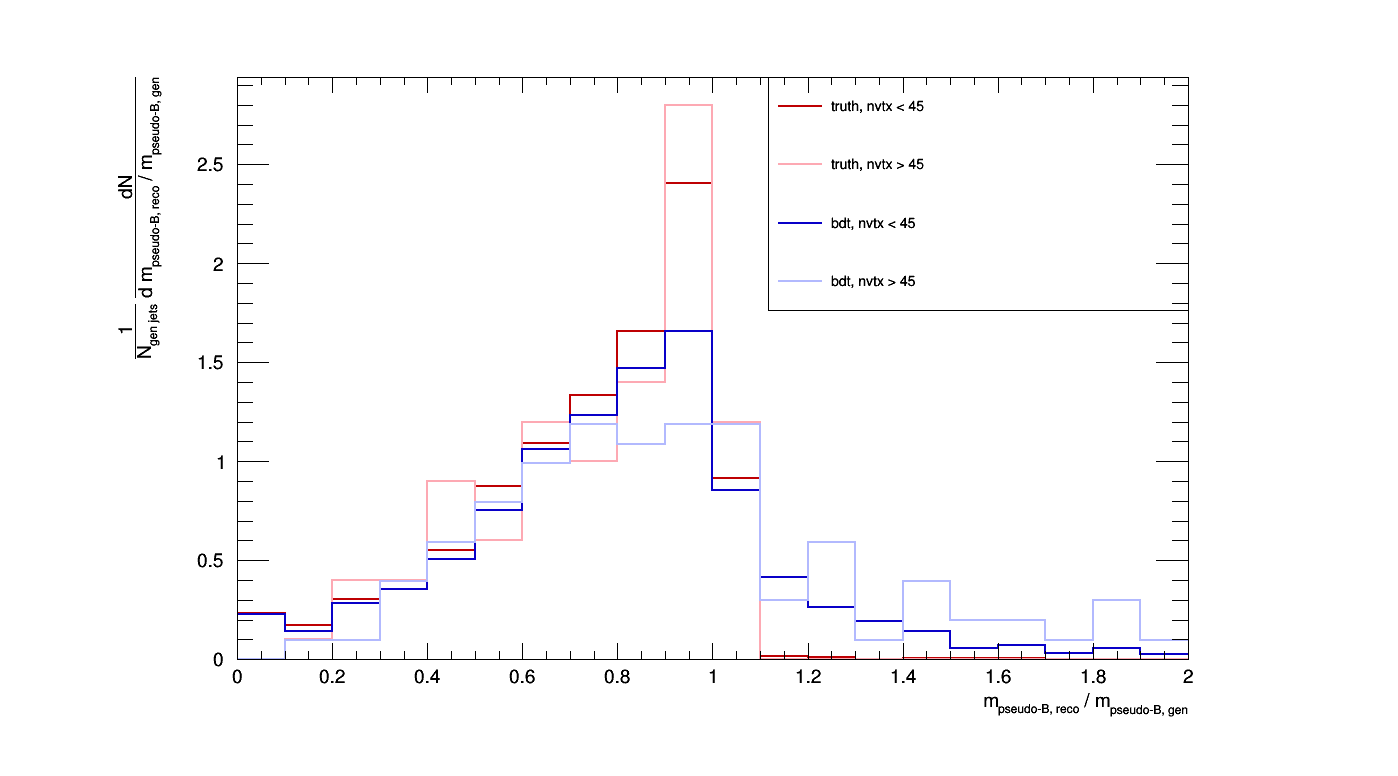
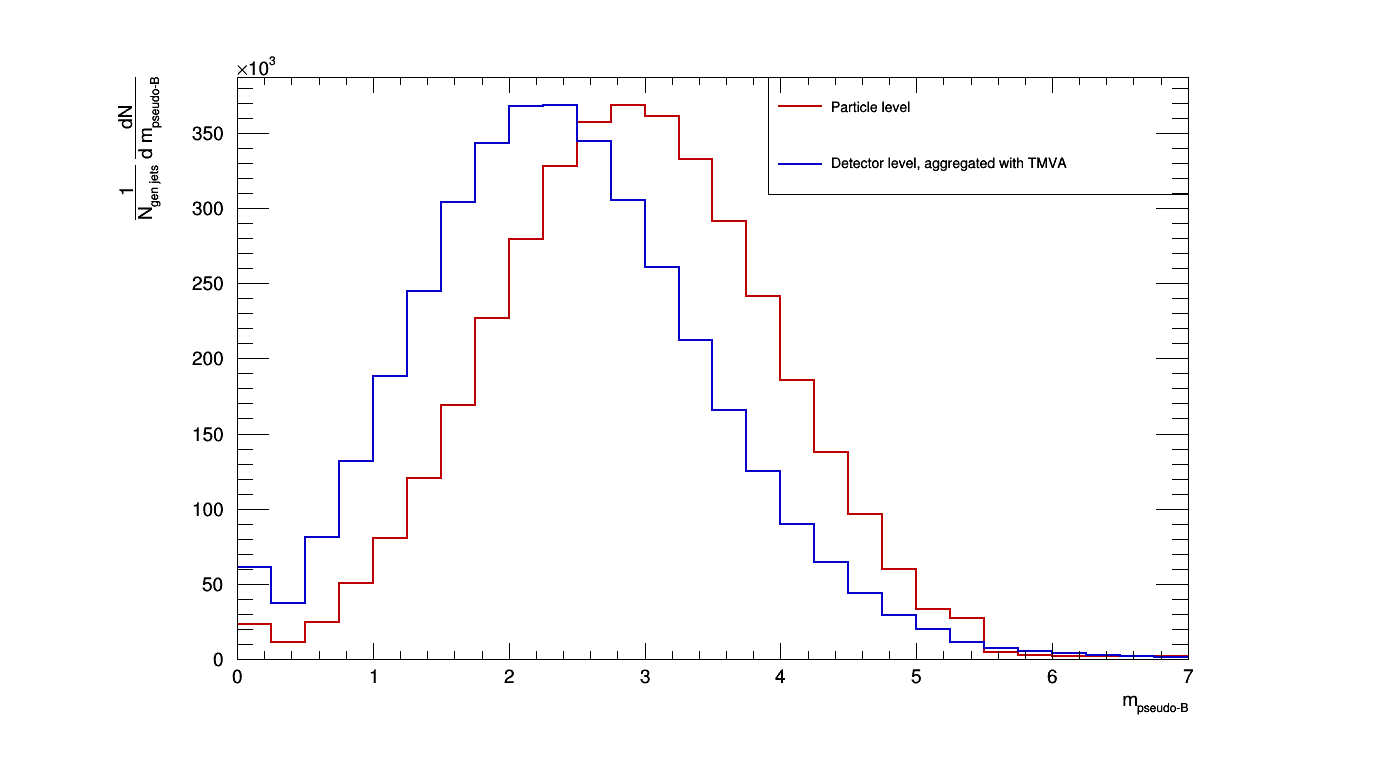
mB plots

diff --git a/myMacros/C106X/draw_mB.C b/myMacros/C106X/draw_mB.C
@@ -80,6 +80,10 @@ void draw_mB()
     TH3D *hBtag_mB_ratio = (TH3D *)fin_aggrTMVA->Get("hBtag_mB_ratio");
     hBtag_mB_ratio->SetName(TString(hBtag_mB_ratio->GetName()) + "_" + label_aggrTMVA);
 
+    TH2D *hBtag_mB = (TH2D *) fin_aggrTMVA->Get("hBtag_mB");
+    TH2D *hBtag_mB_gen = (TH2D *) fin_aggrTMVA->Get("hBtag_mB_gen");
+
+
     // ---- Find bins 
     // Int_t iyminLow = 1;
     // Int_t iymaxLow = hmB_truth_3d->GetYaxis()->FindBin(lowNvtxMax) - 1;
@@ -100,49 +104,77 @@ void draw_mB()
     Int_t ixmax = hBtag_mB_ratio->GetXaxis()->GetNbins() + 1;
 
     // ---- Prepare plot
-    THStack *hStack_mB_ratio = new THStack("hStack_mB_ratio", "hBtag_mB");
+    THStack *hStack_mB_ratio = new THStack("hStack_mB_ratio", "hBtag_mB_ratio");
     hStack_mB_ratio->SetTitle("; m_{pseudo-B, reco} / m_{pseudo-B, gen}; #frac{1}{N_{gen jets}} #frac{dN}{d m_{pseudo-B, reco} / m_{pseudo-B, gen}}");
 
-    TLegend *legmB = new TLegend(0.55, 0.75, 0.85, 0.9);
-    legmB->SetFillStyle(0);
-    legmB->SetBorderSize(1);
-    legmB->SetMargin(0.15);
+    TLegend *leg_mB_ratio = new TLegend(0.55, 0.75, 0.85, 0.9);
+    leg_mB_ratio->SetFillStyle(0);
+    leg_mB_ratio->SetBorderSize(1);
+    leg_mB_ratio->SetMargin(0.15);
+
+    THStack *hStack_mB = new THStack("hStack_mB", "hBtag_mB and hBtag_mB_gen");
+    hStack_mB->SetTitle("; m_{pseudo-B}; #frac{1}{N_{gen jets}} #frac{dN}{d m_{pseudo-B}}");
+
+    TLegend *leg_mB = new TLegend(0.55, 0.75, 0.85, 0.9);
+    leg_mB->SetFillStyle(0);
+    leg_mB->SetBorderSize(1);
+    leg_mB->SetMargin(0.15);
 
     // ---- Make projections 
     // TH1D *hmB_truth_lowNvtx = (TH1D *) hmB_truth_3d->ProjectionX("hmB_truth_lowNvtx", iyminLow, iymaxLow, izmin, izmax);
     // normalize_histo(hmB_truth_lowNvtx, ixmin, ixmax);
     // format_histo(hmB_truth_lowNvtx, mykRed);
     // hStack_mB_ratio->Add(hmB_truth_lowNvtx);
-    // legmB->AddEntry(hmB_truth_lowNvtx, Form("truth, nvtx < %.0f", lowNvtxMax), "l");
-    // legmB->AddEntry(hmB_truth_lowNvtx, "truth", "l");
+    // leg_mB_ratio->AddEntry(hmB_truth_lowNvtx, Form("truth, nvtx < %.0f", lowNvtxMax), "l");
+    // leg_mB_ratio->AddEntry(hmB_truth_lowNvtx, "truth", "l");
 
     // TH1D *hmB_truth_highNvtx = (TH1D *) hmB_truth_3d->ProjectionX("hmB_truth_highNvtx", iyminHigh, iymaxHigh, izmin, izmax);
     // normalize_histo(hmB_truth_highNvtx, ixmin, ixmax);
     // format_histo(hmB_truth_highNvtx, mykRedLight);
     // hStack_mB_ratio->Add(hmB_truth_highNvtx);
-    // legmB->AddEntry(hmB_truth_highNvtx, Form("truth, nvtx > %.0f", highNvtxMin), "l");
+    // leg_mB_ratio->AddEntry(hmB_truth_highNvtx, Form("truth, nvtx > %.0f", highNvtxMin), "l");
 
     TH1D *hBtag_mB_ratio_lowNvtx = (TH1D *) hBtag_mB_ratio->ProjectionX("hBtag_mB_ratio_lowNvtx", iyminLow, iymaxLow, izmin, izmax);
     normalize_histo(hBtag_mB_ratio_lowNvtx, ixmin, ixmax);
     format_histo(hBtag_mB_ratio_lowNvtx, mykBlue);
     hStack_mB_ratio->Add(hBtag_mB_ratio_lowNvtx);
-    // legmB->AddEntry(hBtag_mB_ratio_lowNvtx, Form("bdt, nvtx < %.0f", lowNvtxMax), "l");
-    legmB->AddEntry(hBtag_mB_ratio_lowNvtx, "Detector / particle level, aggregated with TMVA", "l");
+    // leg_mB_ratio->AddEntry(hBtag_mB_ratio_lowNvtx, Form("bdt, nvtx < %.0f", lowNvtxMax), "l");
+    leg_mB_ratio->AddEntry(hBtag_mB_ratio_lowNvtx, "Detector / particle level, aggregated with TMVA", "l");
 
     TH1D *hBtag_mB_ratio_highNvtx = (TH1D *) hBtag_mB_ratio->ProjectionX("hBtag_mB_ratio_highNvtx", iyminHigh, iymaxHigh, izmin, izmax);
     normalize_histo(hBtag_mB_ratio_highNvtx, ixmin, ixmax);
     format_histo(hBtag_mB_ratio_highNvtx, mykBlueLight);
     // hStack_mB_ratio->Add(hmB_bdt_highNvtx);
-    // legmB->AddEntry(hmB_bdt_highNvtx, Form("bdt, nvtx > %.0f", highNvtxMin), "l");
+    // leg_mB_ratio->AddEntry(hmB_bdt_highNvtx, Form("bdt, nvtx > %.0f", highNvtxMin), "l");
+
+    TH1D *hBtag_mB_gen_1d = (TH1D *) hBtag_mB_gen->ProjectionX("hBtag_mB_gen_1d", izmin, izmax);
+    format_histo(hBtag_mB_gen_1d, mykRed);
+    leg_mB->AddEntry(hBtag_mB_gen_1d, "Particle level", "l");
+    hStack_mB->Add(hBtag_mB_gen_1d);
+
+    TH1D *hBtag_mB_1d = (TH1D *) hBtag_mB->ProjectionX("hBtag_mB_1d", izmin, izmax);
+    format_histo(hBtag_mB_1d, mykBlue);
+    leg_mB->AddEntry(hBtag_mB_1d, "Detector level, aggregated with TMVA", "l");
+    hStack_mB->Add(hBtag_mB_1d);
 
     // ---- Draw the histos
-    TCanvas *cmB = new TCanvas("cmB", "", 1400, 800);
+    TCanvas *c_mB_ratio = new TCanvas("c_mB_ratio", "", 1400, 800);
 
-    cmB->cd();
+    c_mB_ratio->cd();
     hStack_mB_ratio->Draw("histo nostack");
-    legmB->Draw();
-    cmB->Draw();
+    leg_mB_ratio->Draw();
+    c_mB_ratio->Draw();
 
-    TString cname = Form("./plots/combined_mB_%.0f_nvtx_%.0f.png", lowNvtxMax, highNvtxMin);
-    cmB->Print(cname);
+    TString cname_mB_ratio = Form("./plots/combined_mB_ratio.png");
+    c_mB_ratio->Print(cname_mB_ratio);
+
+    TCanvas *c_mB = new TCanvas("c_mB", "", 1400, 800);   
+    c_mB->cd();
+    hStack_mB->Draw("histo nostack");
+    leg_mB->Draw();
+    c_mB->Draw();
+
+    TString cname_mB = "./plots/combined_mB.png";
+    c_mB->Print(cname_mB);
+    
 }
